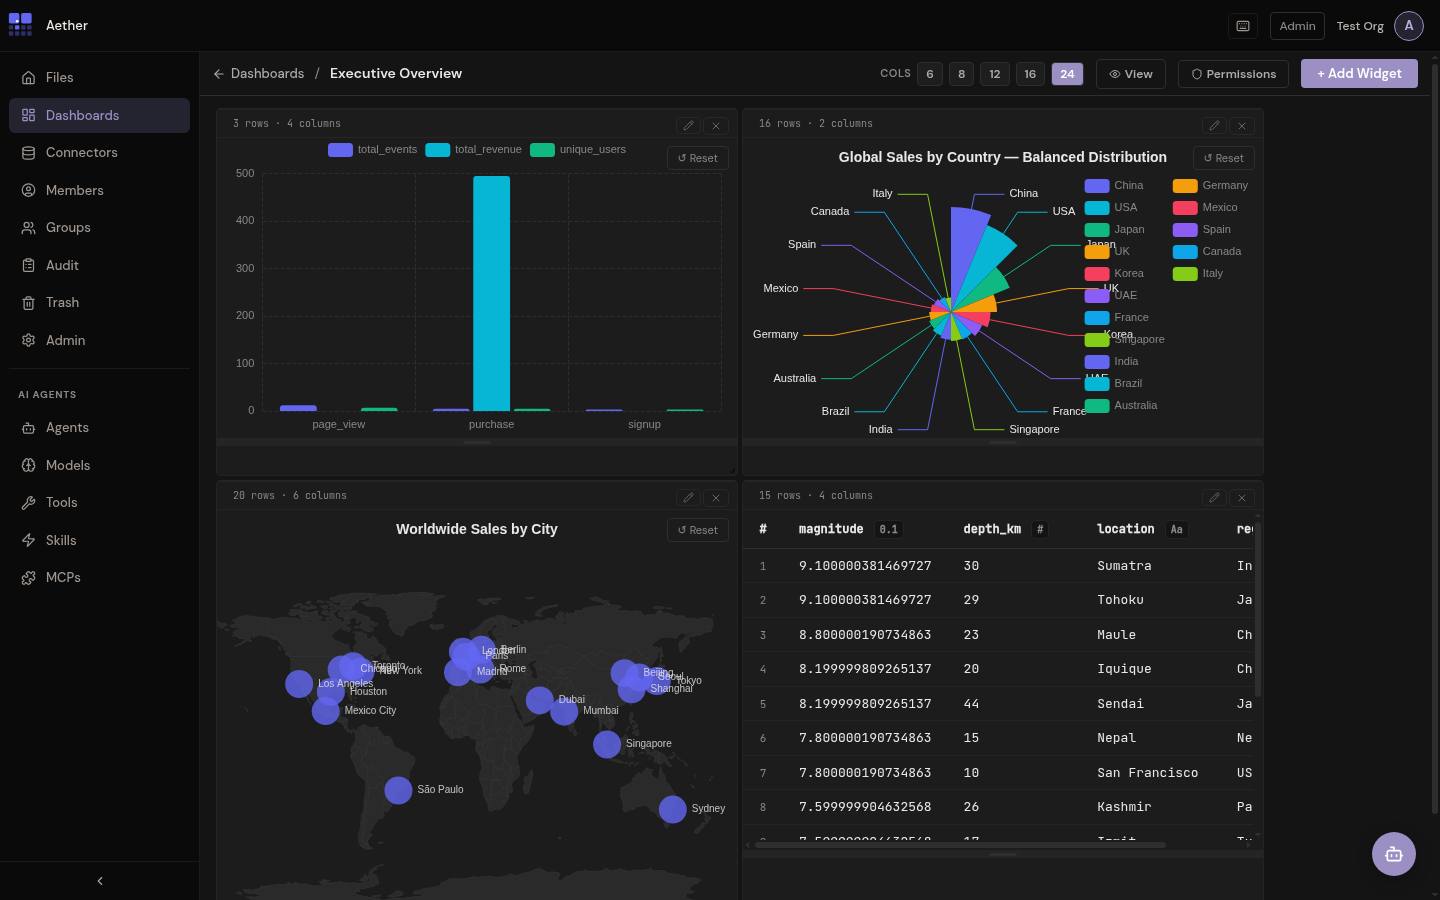
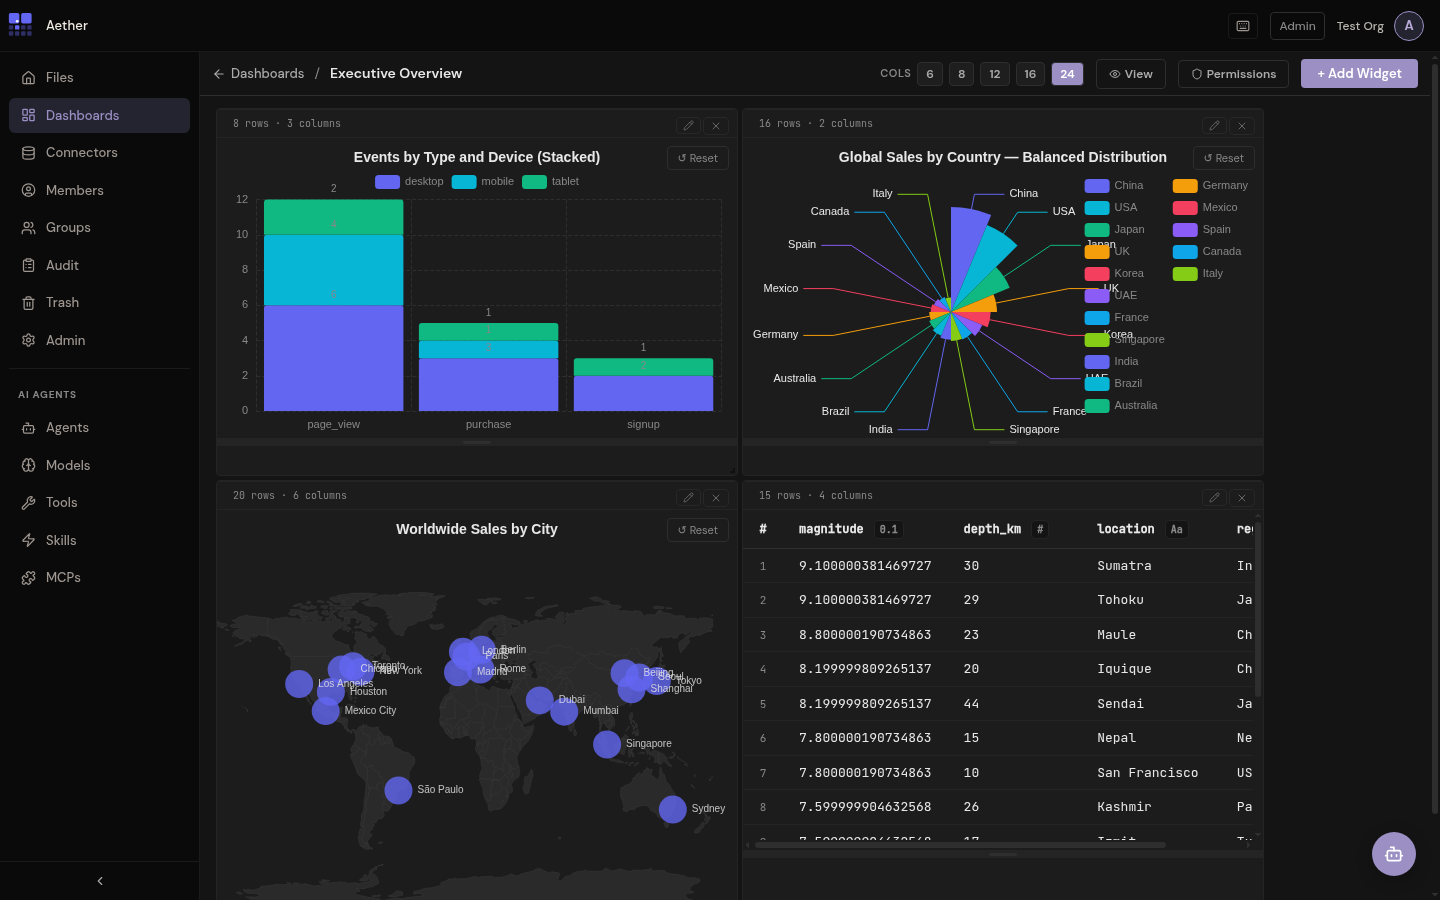
docs: update screenshots - new dashboard, agent chat in light theme

Changed region(s): [[0.1562, 0.1556, 0.5, 0.4978]]

diff --git a/README.md b/README.md
@@ -45,11 +45,11 @@
   </tr>
   <tr>
     <td><img src="readme-screenshots/home-light.png" alt="File browser (light theme)" width="100%"></td>
-    <td><img src="readme-screenshots/home-dark.png" alt="File browser (dark theme)" width="100%"></td>
+    <td><img src="readme-screenshots/agent-chat.png" alt="AI agent with rendered markdown" width="100%"></td>
   </tr>
   <tr>
-    <td align="center"><em>File browser — light theme</em></td>
-    <td align="center"><em>File browser — dark theme</em></td>
+    <td align="center"><em>File browser — folders, connectors, dashboards</em></td>
+    <td align="center"><em>AI agent — chat with markdown, code blocks, and tables</em></td>
   </tr>
 </table>
 
